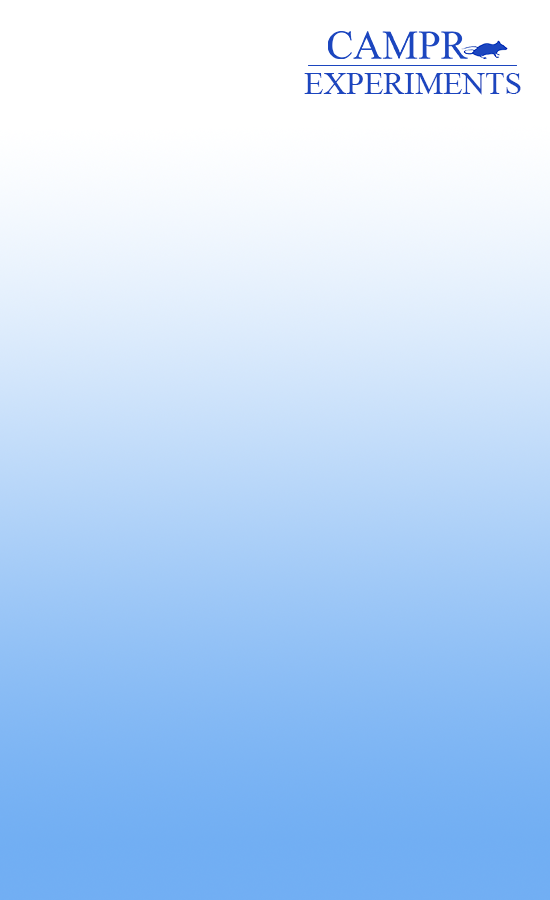
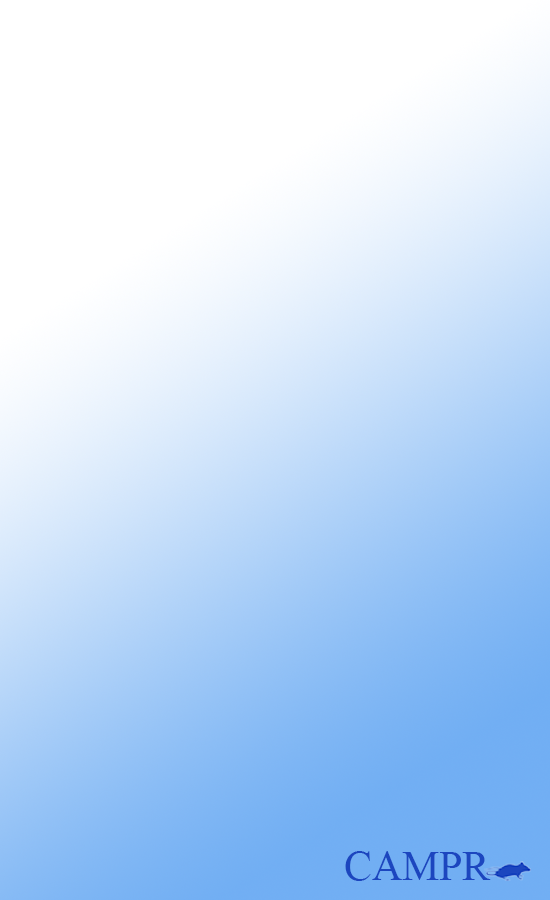
small DB tests and new background images

diff --git a/expPage.java b/expPage.java
@@ -10,6 +10,7 @@ import java.util.ArrayList;
 import java.awt.event.MouseAdapter;
 import java.awt.event.MouseEvent;
 import java.util.Date;
+import java.lang.Runtime;
 
 public class expPage extends Page {
 
@@ -420,9 +421,16 @@ public class expPage extends Page {
                return;
             }
             Page displayPage = expDisplayPage(ex);
-            displayPage.add(new Button(540, 130, 40, 200, "Retrieve Results", new MouseAdapter() {
+            displayPage.add(new Button(540, 30, 40, 200, "Retrieve Results", new MouseAdapter() {
                public void mouseClicked(MouseEvent e) {
                   //TODO: add retrieval Logic
+                  String pathToCSV = "/home/rat/git/ratascope/test.csv";
+                  String stringRun = "excel "+pathToCSV;
+                  try{
+                     Process pr = Runtime.getRuntime().exec(new String[] {"bash", "-c" ,stringRun});
+                  }catch (Exception ex){
+                     /* Should not be here */
+                  }
                }
             }));
             displayPage.reveal();

diff --git a/CAMPRDatabase.java b/CAMPRDatabase.java
@@ -513,11 +513,11 @@ public class CAMPRDatabase{
 
       //cageSelect();
 
-      Experiment exp = new Experiment("Bryn", "exp1", "12:00AM 17 03 11", "15", "on1", "off1");
+      Experiment exp = new Experiment("Bryn", "exp1", "12:00AM 19 03 11", "15", "on1", "off1");
       exp.setCage(new MouseCage(new Cage("cage1", "ip1"), "mouse1"));
       expInput(exp);
 
-      exp = new Experiment("Nolan", "exp2", "12:00AM 18 02 25", "15", "on2", "off2");
+      exp = new Experiment("Nolan", "exp2", "12:00AM 19 02 25", "15", "on2", "off2");
       exp.setCage(new MouseCage(new Cage("cage2", "ip2"), "mouse2"));
       exp.setCage(new MouseCage(new Cage("cage3", "ip3"), "mouse3"));
       expInput(exp);
